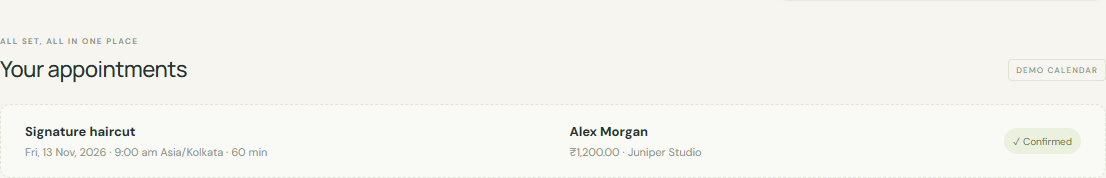
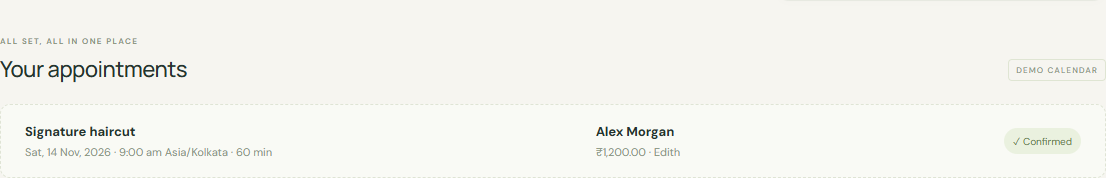
Preserve Edith branding, Indian English guidance and local credential precedence

Changed region(s): [[0.0, 0.8146, 0.2459, 0.8989], [0.4919, 0.8146, 0.6456, 0.8989], [0.4919, 0.7022, 0.6148, 0.7865]]

diff --git a/README.md b/README.md
@@ -26,7 +26,7 @@ Front Desk turns a booking request into a natural conversation. Tell the AI whic
 - **Calendar tools:** non-blocking function calls check available times and prepare booking details on the server.
 - **Confirm before saving:** review the service, date, time, name, and price, then press **Confirm booking**. Voice statements alone do not save a booking.
 - **Visible appointments:** browse open slots and see confirmed bookings in the UI, with server-side conflict checks.
-- **A ready-to-try demo:** Juniper Studio includes services and a sample calendar. Manual booking works without an API key.
+- **A ready-to-try demo:** Edith includes services and a sample calendar. Manual booking works without an API key.
 - **Configurable businesses:** switch branding, services, prices, currency, timezone, hours, and booking rules through JSON.
 - **Session controls:** microphone permission handling, mute/unmute, interruption cleanup, and upstream session shutdown.
 
@@ -92,7 +92,7 @@ On macOS/Linux:
 cp .env.example .env.local
 ```
 
-Environment files are ignored by Git. The included `.env.example` has no credential. You can skip voice configuration and still try the manual demo calendar.
+In local development, `.env.local` takes precedence over inherited shell settings; restart the server after changing it. Production and test processes (`NODE_ENV=production` or `test`) skip `.env.local` and keep their explicitly supplied environment values. `.env` supplies remaining defaults. Environment files are ignored by Git. The included `.env.example` has no credential. You can skip voice configuration and still try the manual demo calendar.
 
 ### 3. Start
 
@@ -131,6 +131,7 @@ Edit [`config/business.json`](config/business.json) and restart. The UI, calenda
 | Setting | What it changes |
 | --- | --- |
 | `name`, `tagline`, `address` | Business identity shown in the UI and used by the AI |
+| `voiceStyle` | Accent, language, pacing and clarification guidance for the AI |
 | `timezone`, `locale`, `currency` | IANA timezone, date/time display, and price formatting |
 | `services` | Unique service IDs, names, durations, prices, and descriptions |
 | `calendar.opensAt`, `calendar.closesAt` | Local opening hours in `HH:mm` format |
@@ -204,3 +205,5 @@ For public deployment, add authentication, HTTPS-aware origin checks, rate and c
 - [Live API function calling](https://ai.google.dev/gemini-api/docs/live-api/tools)
 - [Live WebSocket reference](https://ai.google.dev/api/live)
 - [Audio streaming and interruptions](https://ai.google.dev/gemini-api/docs/live-api/best-practices)
+
+Edith uses configurable Indian English voice guidance, including clarification of names, dates and times. Accent is requested through system instructions; the generated accent can vary between sessions. Native Live audio does not require a forced language-code setting.
